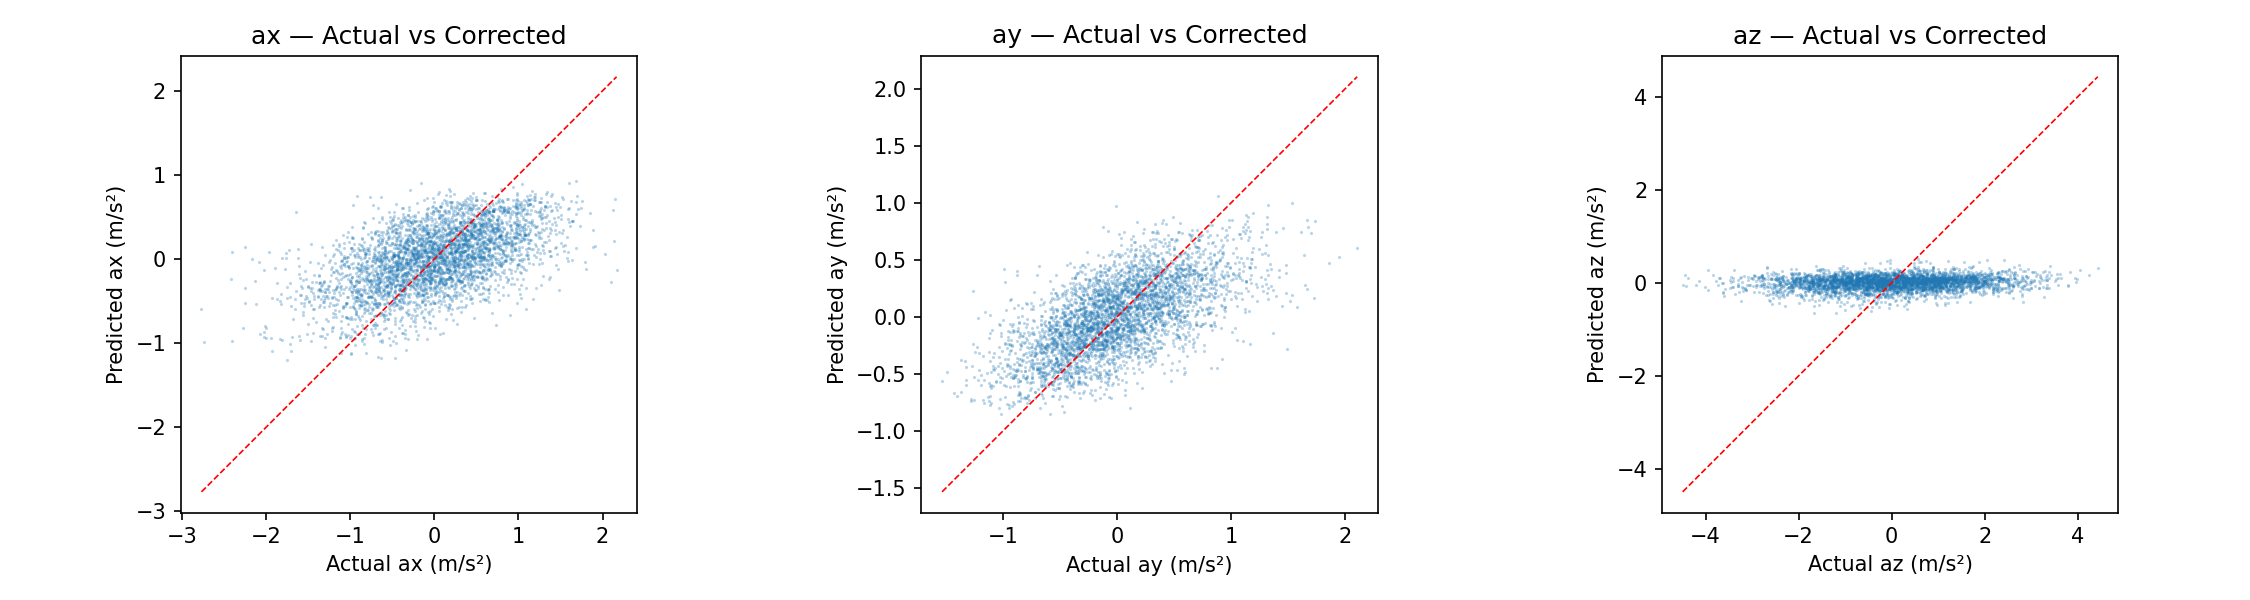
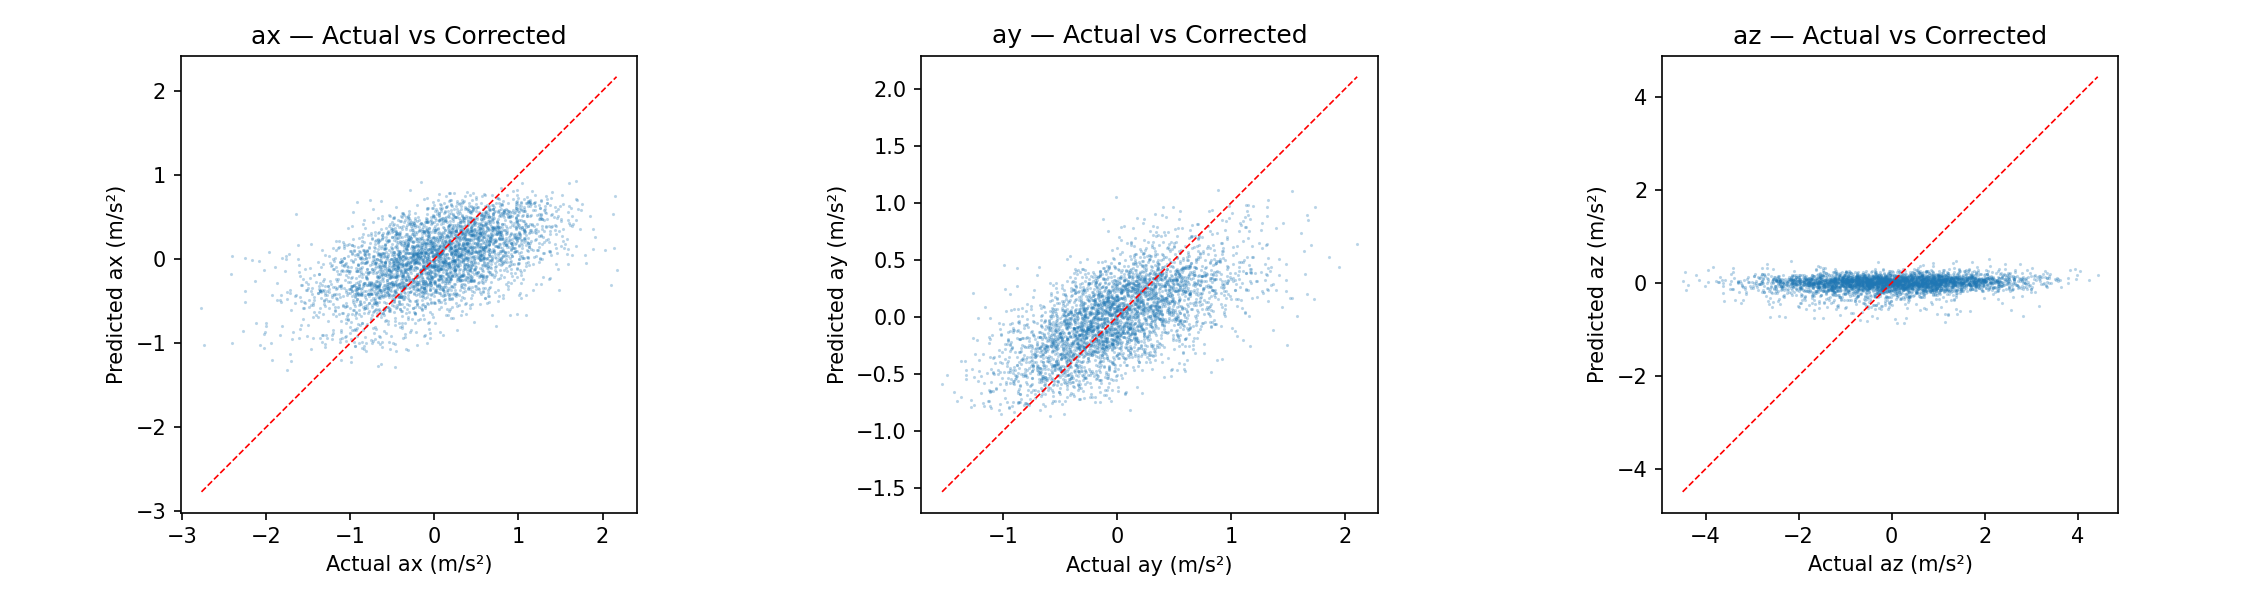
Add one-step velocity prediction comparison plot
Integrate predicted acceleration one step: v(t+dt) = v(t) + a_pred*dt.
Confirms RB model tracks actual world-frame velocity well after sign fix.
  vx error: RB 0.010 → RB+GP 0.006 m/s
  vy error: RB 0.007 → RB+GP 0.005 m/s

https://claude.ai/code/session_01LyivL6ySPkazYroLddSuMA

Changed region(s): [[0.4356, 0.36, 0.5911, 0.69], [0.1244, 0.3, 0.28, 0.6], [0.7467, 0.42, 0.9333, 0.54]]

diff --git a/data_set/train_system_sparse_gpr.py b/data_set/train_system_sparse_gpr.py
@@ -504,6 +504,61 @@ def main():
     plt.savefig(str(save_dir / "system_sparse_gpr_scatter.png"), dpi=150)
     print(f"    Scatter plots saved to: {save_dir / 'system_sparse_gpr_scatter.png'}")
 
+    # Velocity comparison: one-step integration of predicted acceleration
+    # v_pred(t+dt) = v_actual(t) + a_pred(t) * dt
+    hover_valid_idx = hover_idx[valid]
+    v_world_actual = [vx_world[hover_valid_idx],
+                      vy_world[hover_valid_idx],
+                      vz_world[hover_valid_idx]]
+    vel_labels = ["vx (m/s)", "vy (m/s)", "vz (m/s)"]
+
+    fig4, axes4 = plt.subplots(3, 2, figsize=(16, 12))
+
+    for i, (ax_name, vlabel) in enumerate(zip(axis_names, vel_labels)):
+        model, lik, xm, xs, ym, ys = models[ax_name]
+        gp_correction, _ = predict_sgpr(model, lik, test_x, xm, xs, ym, ys)
+
+        n_pts = len(hover_t)
+        dt = np.diff(hover_t)
+
+        # One-step: v_pred(t+1) = v_actual(t) + a(t)*dt
+        v_rb = np.zeros(n_pts)
+        v_gp = np.zeros(n_pts)
+        v_rb[0] = v_world_actual[i][0]
+        v_gp[0] = v_world_actual[i][0]
+        for j in range(n_pts - 1):
+            v_rb[j + 1] = v_world_actual[i][j] + accel_pred_rb[i][j] * dt[j]
+            v_gp[j + 1] = v_world_actual[i][j] + (accel_pred_rb[i][j] + gp_correction[j]) * dt[j]
+
+        err_rb = v_world_actual[i] - v_rb
+        err_gp = v_world_actual[i] - v_gp
+
+        # Left: time series
+        ax = axes4[i, 0]
+        ax.plot(hover_t, v_world_actual[i], "k-", linewidth=0.8, alpha=0.6, label="Actual (odom→world)")
+        ax.plot(hover_t, v_rb, "b-", linewidth=0.8, alpha=0.5, label="RB one-step")
+        ax.plot(hover_t, v_gp, "r-", linewidth=0.8, alpha=0.5, label="RB+GP one-step")
+        ax.set_ylabel(vlabel)
+        ax.set_xlabel("Time (s)")
+        ax.legend(fontsize=7)
+        ax.set_title(f"{vlabel} — One-Step Velocity Prediction")
+
+        # Right: error distribution
+        ax2 = axes4[i, 1]
+        ax2.hist(err_rb, bins=80, alpha=0.5, density=True,
+                 label=f"RB (std={err_rb.std():.4f})")
+        ax2.hist(err_gp, bins=80, alpha=0.5, density=True,
+                 label=f"RB+GP (std={err_gp.std():.4f})")
+        ax2.set_xlabel(f"Velocity error (m/s)")
+        ax2.set_ylabel("Density")
+        ax2.legend(fontsize=7)
+        ax2.set_title(f"{vlabel} — Prediction Error")
+
+    plt.suptitle("One-Step Velocity Prediction: v(t+dt) = v(t) + a_pred·dt", fontsize=14)
+    plt.tight_layout()
+    plt.savefig(str(save_dir / "system_sparse_gpr_velocity.png"), dpi=150)
+    print(f"    Velocity plots saved to: {save_dir / 'system_sparse_gpr_velocity.png'}")
+
     print("\n" + "=" * 60)
     print("Done!")
     print("=" * 60)